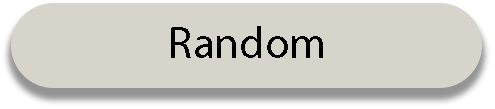
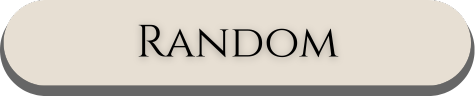
"changed map selection buttons"

Changed region(s): [[0.0, 0.0, 1.0, 1.0], [0.2941, 0.2188, 0.7059, 0.5938]]

diff --git a/MimalaFinal/MimalaFinal/src/state/MapSelection.java b/MimalaFinal/MimalaFinal/src/state/MapSelection.java
@@ -41,8 +41,8 @@ public class MapSelection extends JPanel {
     private String selectedMapPath = null;
     private JLabel currentlySelectedMapLabel = null;
     private final Border selectionBorder = BorderFactory.createLineBorder(Color.YELLOW, 5);
-    private final Border hoverBorder = BorderFactory.createLineBorder(Color.YELLOW, 5);
-    private final Border defaultBorder = BorderFactory.createLineBorder(Color.BLACK, 5);
+    private final Border hoverBorder = BorderFactory.createLineBorder(new Color(206, 144, 10), 10); // #ce900a
+    private final Border defaultBorder = BorderFactory.createLineBorder(Color.BLACK, 10);
 
     private final String firstPlayerSelection;
     private final String secondPlayerSelection;
